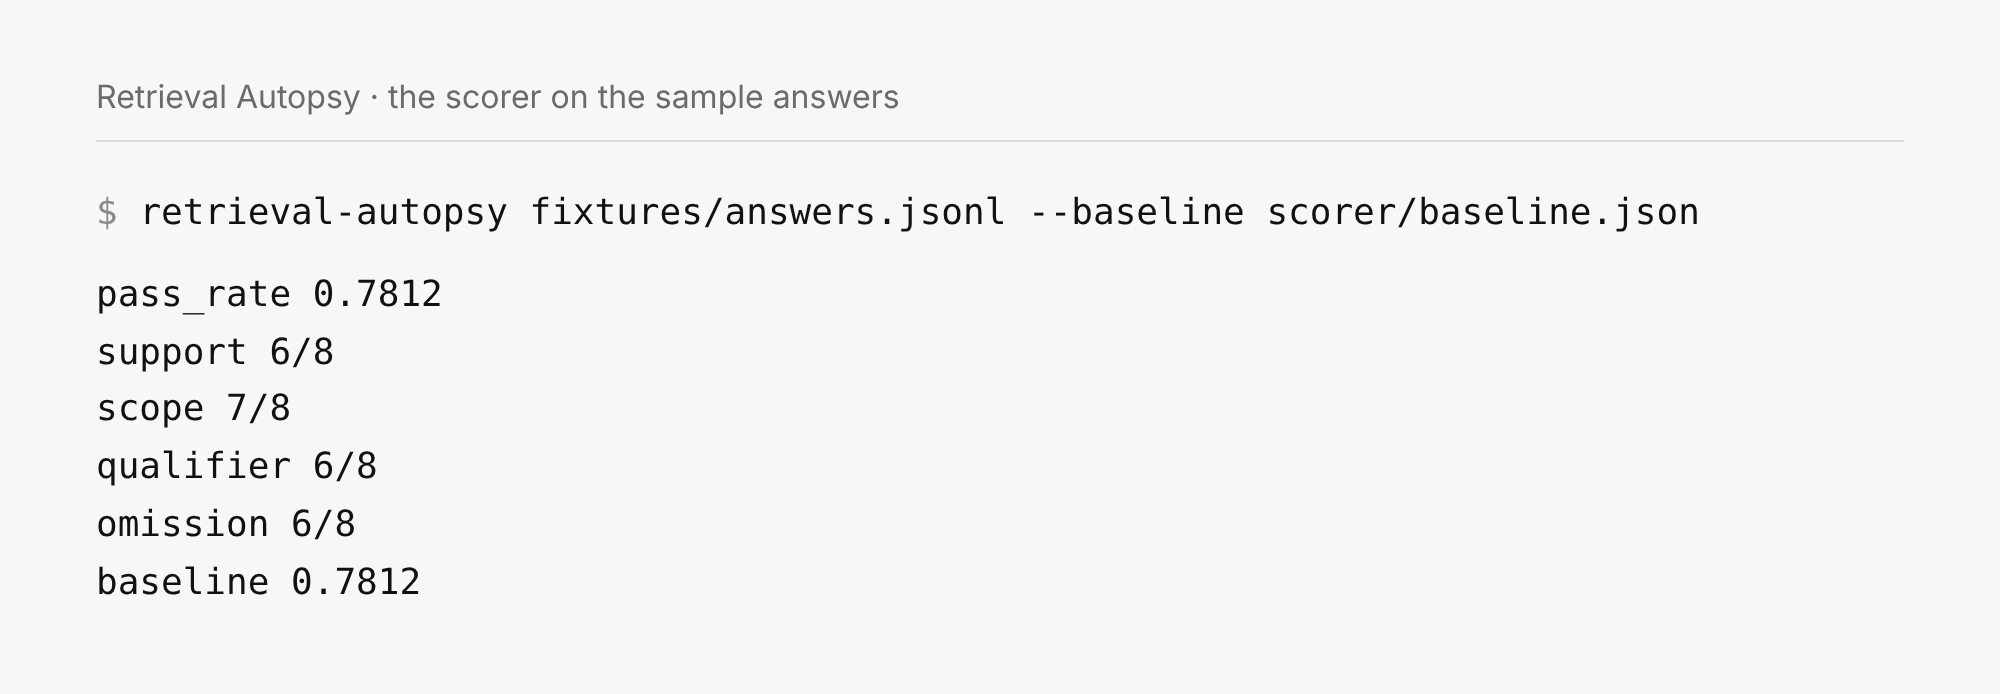
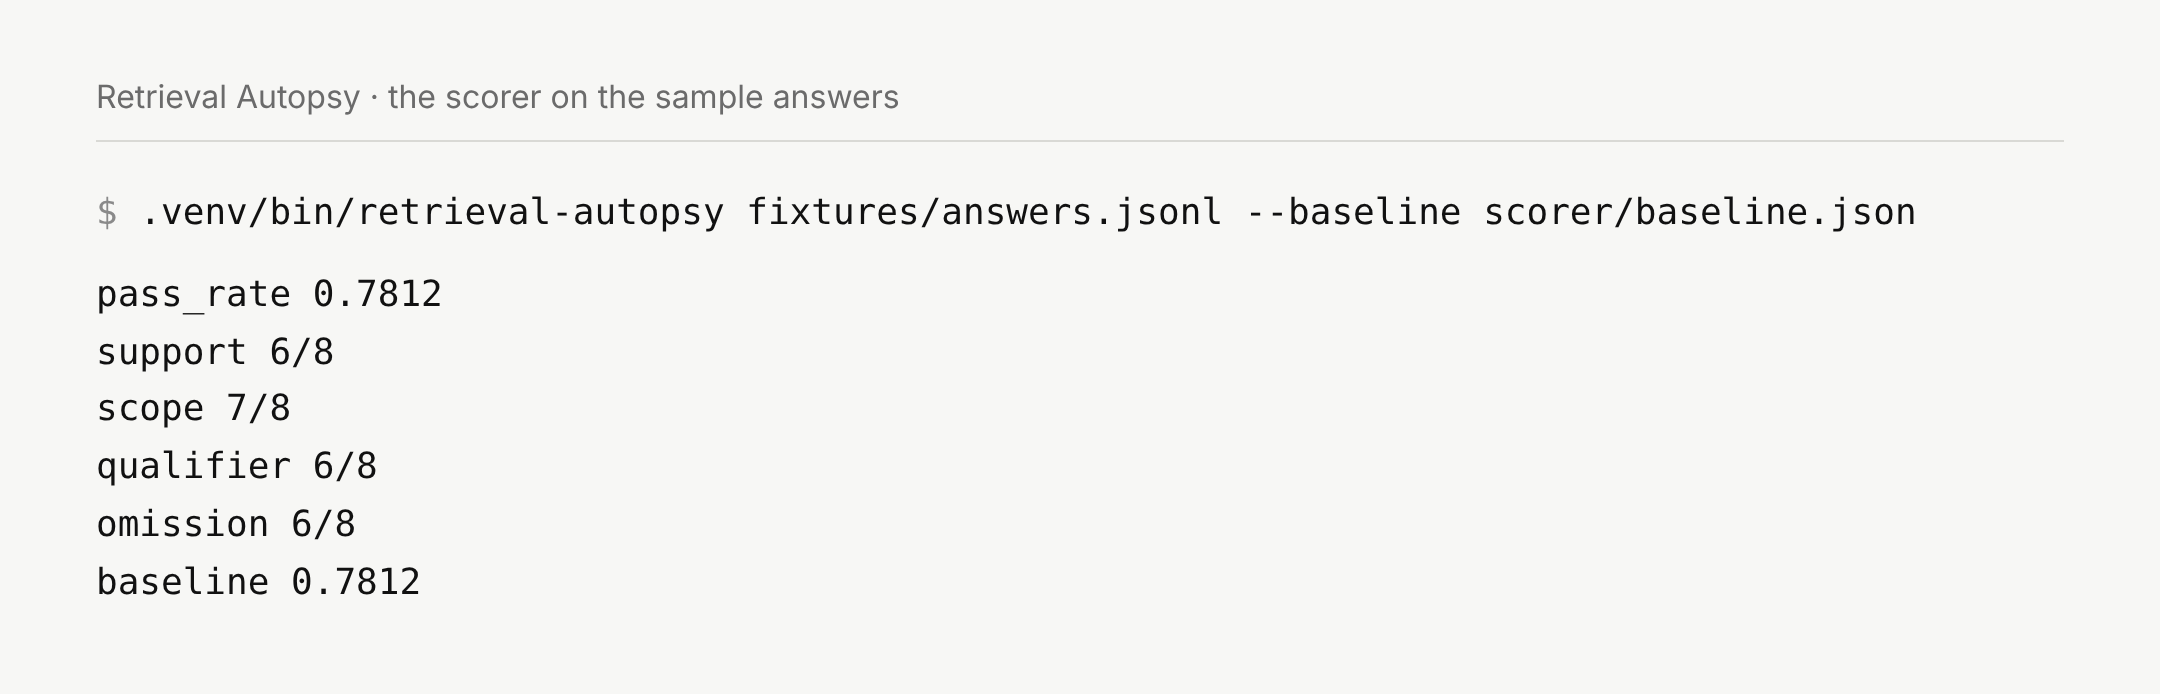
Require Node.js 22, and show the full scorer command in the capture

diff --git a/README.md b/README.md
@@ -8,7 +8,7 @@ It is for people who build or review a bot that answers from a document, such as
 
 ## Try it
 
-No account and no key. You need Node.js 20 or newer. From a fresh clone:
+No account and no key. You need Node.js 22 or newer. From a fresh clone:
 
 ```bash
 git clone https://github.com/jakob-alexander2000/retrieval-autopsy.git
@@ -79,14 +79,13 @@ Commit `92cb0f52e9f8b463a92f60adde4486595467fe41` (“Add Retrieval Autopsy”):
 - `wrangler.jsonc`, unit tests, the Playwright trap test, `fixtures/answers.jsonl`, the Dockerfile, and both GitHub workflows.
 - The recording under `docs/retrieval-autopsy.gif` (about 3.4 seconds), plus `docs/desktop-1440x900.png` and `docs/mobile-390x844.png`.
 
-
 ## Limitations
 
 - The checks are lexical. A paraphrase that keeps the meaning and changes the words can fail Support, or can hide a dropped limit from Qualifier.
 - Scope only notices a few widenings: “everyone”, “every worker”, and the other phrases in the checker, plus a claim that an excluded group is included. It will miss a quieter over-generalisation.
 - “Drops conditions” is a handful of string rules. It is there so a failure is obvious. It is not a model of a careless writer.
 - Keyword and meaning can disagree, and the scorecard can still pass, because it judges the answer against the passages that were retrieved, not against a passage you wish had been retrieved. Look at the two columns for that.
-- Meaning search downloads the model and its runtime on first use. The first run is slow, and it needs a network. Later runs use the browser cache. Lighthouse on the first screen does not include that download.
+- Meaning search downloads the model and its runtime on first use. The first run is slow, and it needs a network. Later runs use the browser cache. Lighthouse (Google’s page-speed audit) on the first screen does not include that download.
 - The in-memory rate limit on `/api/answer` is per isolate, eight requests a minute per address. It is not a global limit.
 - The sample is fiction. Nothing in it is a policy.
 
@@ -100,7 +99,7 @@ npm run verify
 
 `npm run verify` typechecks, lints, runs the unit tests, builds, runs the Playwright trap test, and runs pytest for `scorer/`.
 
-Checked from a fresh clone on 4 November 2026 with Node.js 20 and Python 3.13: `npm ci`, the typecheck, lint, 23 unit tests, the build, 3 Playwright tests, the scorer, and 2 pytest tests all passed.
+Checked from a fresh clone on 4 November 2026 with Node.js 22 and Python 3.13: `npm ci`, the typecheck, lint, 23 unit tests, the build, 3 Playwright tests, the scorer, and 2 pytest tests all passed.
 
 ## Deploy
 
